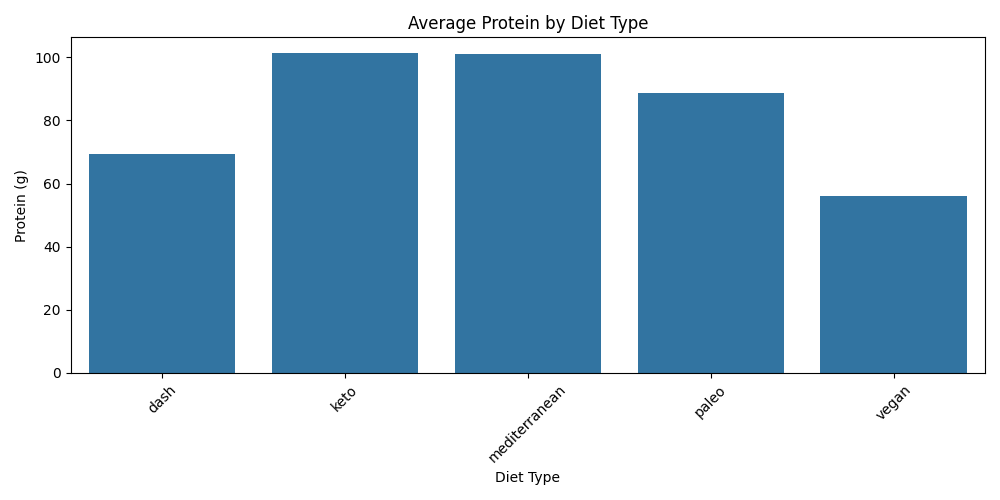
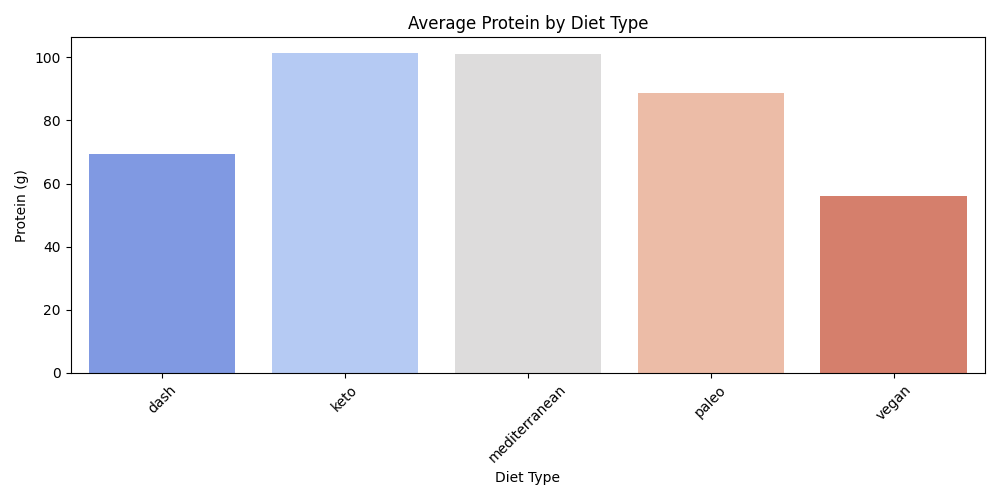
Task 3 done

diff --git a/data_analysis.py b/data_analysis.py
@@ -1,10 +1,22 @@
 import pandas as pd
 import matplotlib.pyplot as plt
 import seaborn as sns
+import numpy as np
+from azure.storage.blob import BlobServiceClient
+from dotenv import load_dotenv
+import os
+import time
+
+load_dotenv()
+
 
 print("Loading dataset...")
-df = pd.read_csv('All_Diets.csv')
-print("Dataset loaded successfully!\n")
+try:
+    df = pd.read_csv('All_Diets.csv')
+    print("Dataset loaded successfully!\n")
+except FileNotFoundError:
+    print("ERROR: 'All_Diets.csv' not found. Make sure the file exists in the same directory.")
+    exit()
 
 print(df.head())
 
@@ -28,32 +40,29 @@ print("\nCleaned dataset saved as 'All_Diets_cleaned.csv'")
 print("\nGenerating visualizations...")
 
 plt.figure(figsize=(10, 5))
-sns.barplot(x=avg_macros.index, y=avg_macros['Protein(g)'])
+sns.barplot(x=avg_macros.index, y=avg_macros['Protein(g)'], palette='coolwarm')
 plt.title('Average Protein by Diet Type')
 plt.xlabel('Diet Type')
 plt.ylabel('Protein (g)')
 plt.xticks(rotation=45)
 plt.tight_layout()
 plt.savefig('avg_protein_bar_chart.png')
-plt.show()
+plt.close()
 
 plt.figure(figsize=(10, 5))
-sns.scatterplot(data=top_protein, x='Carbs(g)', y='Protein(g)', hue='Diet_type')
+sns.scatterplot(data=top_protein, x='Carbs(g)', y='Protein(g)', hue='Diet_type', palette='viridis', s=80)
 plt.title('Top 5 Protein-Rich Recipes (Protein vs Carbs)')
 plt.xlabel('Carbs (g)')
 plt.ylabel('Protein (g)')
-plt.legend(title='Diet Type')
+plt.legend(title='Diet Type', bbox_to_anchor=(1.05, 1), loc='upper left')
 plt.tight_layout()
 plt.savefig('protein_scatter_plot.png')
-plt.show()
+plt.close()
 
-print("\nVisualizations saved as:")
+print("\nVisualizations saved:")
 print(" - avg_protein_bar_chart.png")
 print(" - protein_scatter_plot.png")
-
-print("\n Task 1 completed successfully!")
-
-import numpy as np
+print("\nTask 1 completed successfully!")
 
 print("\nStarting Task 2 (NumPy-based analysis)...")
 
@@ -61,7 +70,7 @@ protein = df['Protein(g)'].to_numpy()
 carbs = df['Carbs(g)'].to_numpy()
 fat = df['Fat(g)'].to_numpy()
 
-print("\nNumpy statistical results:")
+print("\nNumPy Statistical Results:")
 print(f"Mean Protein: {np.mean(protein):.2f}")
 print(f"Mean Carbs: {np.mean(carbs):.2f}")
 print(f"Mean Fat: {np.mean(fat):.2f}")
@@ -72,7 +81,6 @@ total_macros = np.column_stack((protein, carbs, fat))
 total_sum = np.sum(total_macros, axis=1)
 
 df['Total_macros'] = total_sum
-
 df.to_csv('All_Diets_NP_Results.csv', index=False)
 print("\nUpdated dataset saved as 'All_Diets_NP_Results.csv'")
 
@@ -83,8 +91,49 @@ plt.xlabel('Total Macronutrient Content')
 plt.ylabel('Number of Recipes')
 plt.tight_layout()
 plt.savefig('total_macros_histogram.png')
-plt.show()
+plt.close()
 
-print("\nTask 2 completed successfully!")
-print("\nVisualizations saved as:")
+print("\nVisualizations saved:")
 print(" - total_macros_histogram.png")
+print("\nTask 2 completed successfully!")
+
+print("\nStarting Task 3: Uploading files to Azure Blob Storage...\n")
+
+CONTAINER_NAME = "diets-data"
+connection_string = os.getenv("AZURE_STORAGE_CONNECTION_STRING")
+
+if not connection_string:
+    print("Azure connection string not found in environment variables.")
+    print("Set it using:")
+    print("   export AZURE_STORAGE_CONNECTION_STRING='your_connection_string_here'")
+    exit()
+
+try:
+    blob_service_client = BlobServiceClient.from_connection_string(connection_string)
+    container_client = blob_service_client.get_container_client(CONTAINER_NAME)
+
+    files_to_upload = [
+        "All_Diets_cleaned.csv",
+        "All_Diets_NP_Results.csv",
+        "avg_protein_bar_chart.png",
+        "protein_scatter_plot.png",
+        "total_macros_histogram.png"
+    ]
+
+    for file_name in files_to_upload:
+        if os.path.exists(file_name):
+            print(f"Uploading {file_name} ...")
+            with open(file_name, "rb") as data:
+                container_client.upload_blob(name=file_name, data=data, overwrite=True)
+            print(f"Uploaded: {file_name}")
+            time.sleep(1)
+        else:
+            print(f"Skipped: {file_name} not found locally.")
+
+    print("\nAll available files uploaded successfully to Azure Blob Storage!")
+    print(f"Container name: {CONTAINER_NAME}")
+
+except Exception as e:
+    print("Error during Azure upload:", e)
+
+print("\nAll Tasks (1, 2, and 3) executed successfully!")
